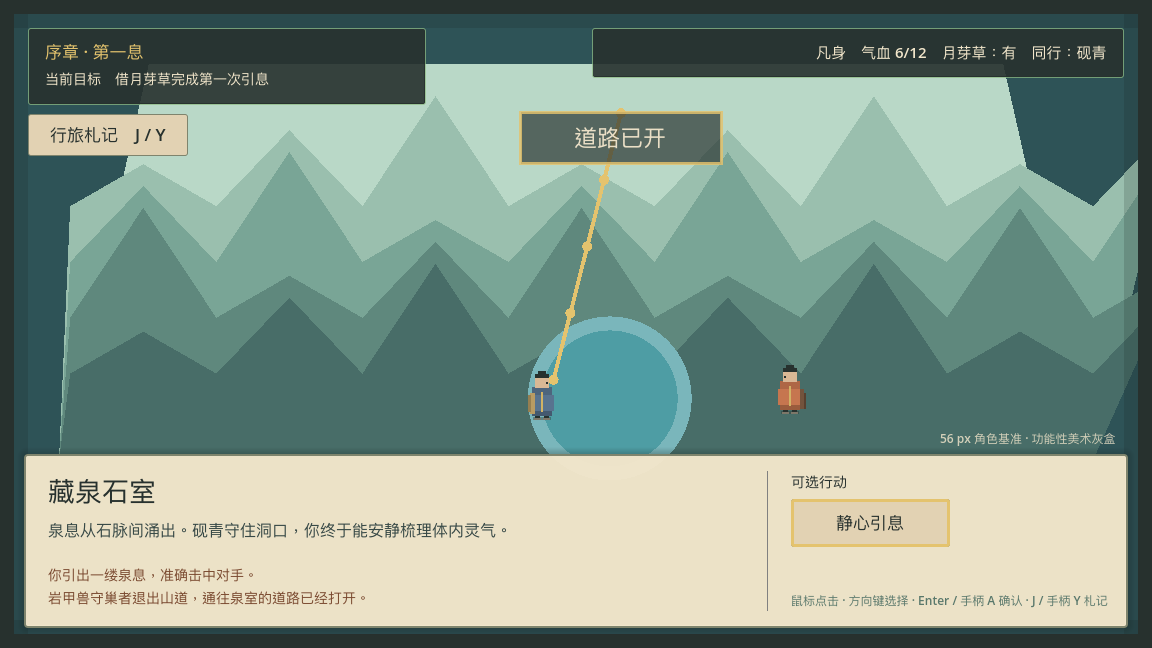
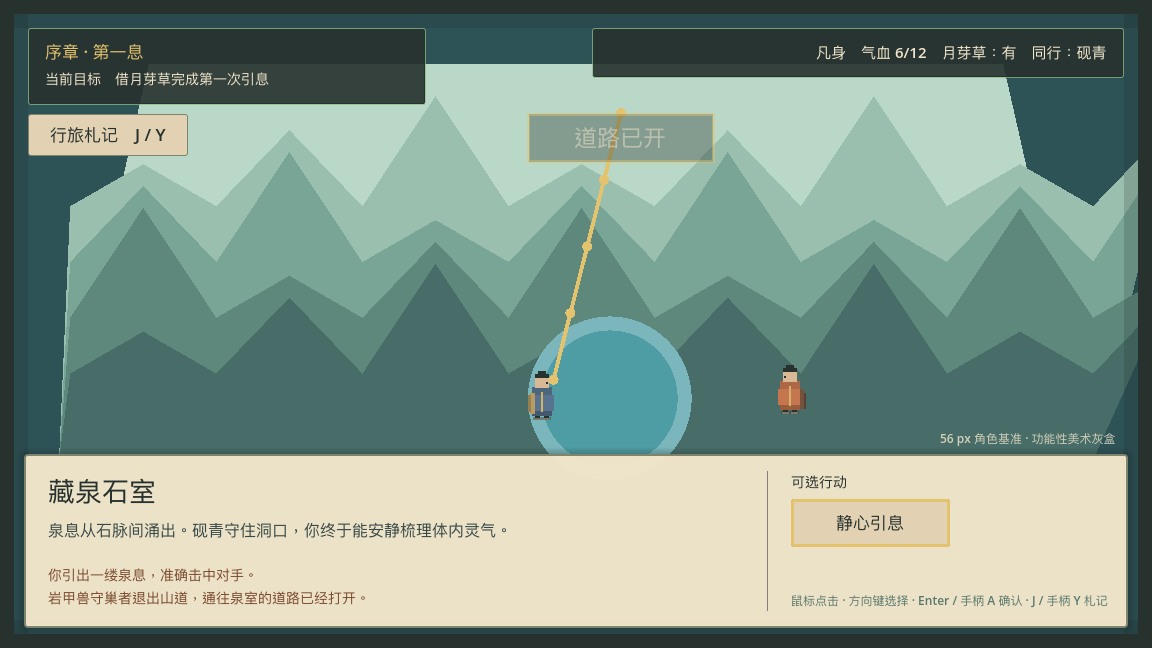
feat: protect local saves before restarting
Require a second explicit activation before deleting valid, corrupt, backup, or interrupted-write journey data. Cancellation owns the default focus and controller Start/Escape path, while the existing title nodes preserve the 119-node lifecycle peak.

Cover cancel and confirm behavior through 747 scene/rule assertions, 104 chapter E2E checks, and 50 physical-input checks. Make reference PNG capture deterministic by fixing animation, feedback, and transition presentation only while writing screenshots; two consecutive full runs produce identical hashes.

Changed region(s): [[0.4375, 0.1543, 0.625, 0.2778]]

diff --git a/docs/TESTING.md b/docs/TESTING.md
@@ -5,11 +5,11 @@
 | Boundary | Gate | Current result |
 | --- | --- | --- |
 | Deterministic cultivation rules and package manifest | pytest + branch coverage, minimum 99% | 62 tests; 100% statements and branches |
-| Godot RPG rules and scenes | headless GDScript harness | 725 assertions passing, including settings-v3 large-text/high-contrast accessibility with migration and persistence, the two-result ferryman side story/save v11, resumable/dynamic chapter epilogue, modal journal/no-spoiler content, four stable paper portraits, three persistent discoveries, bounded companion footprints, focus-blocking/reduced-motion transitions, Y-depth occlusion, selectable harvesting, enemy-atlas selection, presentation independence, shared-resolver boss, dialogue, and exploration contracts |
-| Godot RPG chapter path | independent headless E2E | 96 checks: ferryman repair/persist/replay-record branches → dynamic epilogue interruption/restore/two responses → saved journal restoration → three character portrait IDs → dialogue interruption → persistent ferry/path discoveries → old-rule harvest → mountain/companion restore → enemy/boss restore → ending → replay cutting/regrowth → bypass |
-| Godot keyboard/controller path | physical events + focus assertions | 42 checks: J/Y journal and movement blocking → title/dialogue/portrait focus safety → keyboard ferryman dialogue + controller choice → keyboard discovery → movement/companion trail → stable one-button harvest → pause preferences incl. text-size/contrast round-trip → two-map interaction → battle focus |
+| Godot RPG rules and scenes | headless GDScript harness | 747 assertions passing, including safe new-game confirmation for valid/corrupt files, settings-v3 large-text/high-contrast accessibility with migration and persistence, the two-result ferryman side story/save v11, resumable/dynamic chapter epilogue, modal journal/no-spoiler content, four stable paper portraits, three persistent discoveries, bounded companion footprints, focus-blocking/reduced-motion transitions, Y-depth occlusion, selectable harvesting, enemy-atlas selection, presentation independence, shared-resolver boss, dialogue, and exploration contracts |
+| Godot RPG chapter path | independent headless E2E | 104 checks: cancel/confirm new-game protection → ferryman repair/persist/replay-record branches → dynamic epilogue interruption/restore/two responses → saved journal restoration → three character portrait IDs → dialogue interruption → persistent ferry/path discoveries → old-rule harvest → mountain/companion restore → enemy/boss restore → ending → replay cutting/regrowth → bypass |
+| Godot keyboard/controller path | physical events + focus assertions | 50 checks: controller cancel/confirm new-game protection → J/Y journal and movement blocking → title/dialogue/portrait focus safety → keyboard ferryman dialogue + controller choice → keyboard discovery → movement/companion trail → stable one-button harvest → pause preferences incl. text-size/contrast round-trip → two-map interaction → battle focus |
 | Godot performance and lifecycle | versioned headless budget | 100,000 collision moves, 50,000 bounded companion-trail updates, and 2,000 complete battle-rule loops each under 2.5 s; 20 scene create/destroy cycles under 5 s; ≤120 nodes and zero root-child leaks |
-| Godot RPG package | double PCK/manifest export + packed-namespace/boot smoke | byte-reproducible artifact and manifest; SHA-256/size/source state verified; six runtime resources present and nine `tests/`/`tools/` resources absent |
+| Godot RPG package and reference captures | double export/capture | byte-reproducible PCK and manifest with SHA-256/size/source state verified; six runtime resources present and nine `tests/`/`tools/` resources absent; consecutive full PNG capture runs have identical SHA-256 sets |
 | Evennia commands and world bootstrap | Evennia isolated database harness | command, localization, and bootstrap integration tests passing |
 | Multiplayer release path | real server, two real Telnet clients | 中文注册 → 登录 → 采药 → 修炼 → 协作 → 突破 → 重连持久化 |
 | Browser journey prototype | Vitest and Playwright | 100% unit metrics; 53 Playwright executions passing |

diff --git a/docs/PROJECT_CONTEXT.md b/docs/PROJECT_CONTEXT.md
@@ -130,7 +130,7 @@ Expand the executable RPG graybox into a complete 90-minute original chapter:
 4. 藏泉山道 free exploration, warning, optional stone-marker investigation, return/retreat, no-combat bypass, mid-map save, and companion rescue path (implemented);
 5. three regular enemy profiles plus a shared-resolver boss, telegraphed intents, material weaknesses, armor-break and focus states (implemented);
 6. an active chapter companion and a visible two-turn tactical deployable (implemented);
-7. side-story-, discovery-, harvest-, battle-status-, enemy-, dialogue-, and map-aware save v11, title/continue, safe backup recovery, chapter replay, and an input-safe no-spoiler journey journal (implemented; v1–v10 migrate explicitly);
+7. side-story-, discovery-, harvest-, battle-status-, enemy-, dialogue-, and map-aware save v11, title/continue, two-step new-game protection, safe backup recovery, chapter replay, and an input-safe no-spoiler journey journal (implemented; v1–v10 migrate explicitly);
 8. mouse, keyboard, and controller parity with physical-event/focus acceptance coverage (implemented);
 9. original visual direction and opt-in procedural ambience with recorded provenance (reproducible protagonist/companion/ferryman and enemy atlases, animated map actors, and bright painted-paper dialogue portraits implemented; map/final asset refinement remains);
 10. new-game-to-ending-to-save-resume-to-replay automated Godot acceptance path (implemented).

diff --git a/docs/design/NEXT_PRODUCTION_PLAN_v0.1.md b/docs/design/NEXT_PRODUCTION_PLAN_v0.1.md
@@ -14,7 +14,7 @@
     → 第一次引息 → 章节结算 → 返回标题 / 继续 / 重游
 ```
 
-工程证据包括 725 项 Godot 规则/场景断言、96 项完整章节 E2E、42 项原始键盘/
+工程证据包括 747 项 Godot 规则/场景断言、104 项完整章节 E2E、50 项原始键盘/
 手柄输入与焦点断言、存档 v1–v11 迁移、可复现 PCK/构建清单与启动冒烟。现阶段最大缺口
 不再是底层闭环，而是正式地图资产、人物表现、探索密度和内容时长。
 
@@ -128,6 +128,7 @@
 | 10e | 可随时查阅的行旅札记（已完成） | 当前目标、无剧透见闻、读档恢复、J/手柄 Y 与焦点阻断通过 |
 | 10f | 动态且可恢复的章节余波（已完成） | 两条路线回显、逐句存档、选择事件一致性与两项收束回应通过 |
 | 10g | 守堤人双结果支线与 save v11（已完成） | 梁叔图集、近距离对话、扶尺/记时地图余留、札记与余波、v10 迁移通过 |
+| 10h | 新游戏存档保护与可复现参考图（已完成） | 有效/异常文件均需二次确认；取消与手柄焦点通过；连续捕获哈希一致 |
 | 11 | 目标平台原生导出 | 干净机启动与续玩通过 |
 | 12 | 视觉、声音、性能与无障碍复核（表现速度/简化动态、大字模式/高对比文字、性能预算、PCK 哈希清单已完成） | 仍需目标硬件与原生平台确认 |
 

diff --git a/docs/DECISIONS.md b/docs/DECISIONS.md
@@ -4,6 +4,19 @@ Use this file for durable decisions. Do not depend on chat transcripts as the on
 
 ## Confirmed
 
+### 2026-08-02 — Starting over never destroys local progress in one activation
+
+When any primary, backup, or interrupted-write journey artifact exists, the title's first
+`重新开始` activation changes the existing two primary buttons into an explicit confirmation:
+cancel and preserve the files, or confirm deletion and begin again. Cancel receives default focus;
+controller Start and Escape also cancel, while unrelated title preferences are temporarily disabled.
+No journey object or file byte changes before the second confirmation. Invalid or future-version
+artifacts receive the same protection so a player retains the option of manual recovery. The flow
+reuses existing nodes to stay within the 120-node lifecycle budget and owns no rule or save-schema
+state. Reference capture tooling separately freezes animation frames, feedback phase, and transition
+time only while writing PNGs, making two consecutive full capture runs byte-identical without
+changing runtime presentation.
+
 ### 2026-08-02 — Text size and contrast are player settings, not rule inputs
 
 Settings v3 adds `text_scale` (`standard`/`large`) and `high_contrast` (boolean), toggled from

diff --git a/rpg/README.md b/rpg/README.md
@@ -39,7 +39,9 @@ hardware promise.
 启动后可选择新游戏或继续本机的版本化存档。当前 save v11 同时记录稳定地图标识、
 归一化坐标、对话行号、敌人标识、战斗状态、月芽采集方式、环境见闻与守堤选择；v1–v10 自动迁移，未知地图、无效对话、未知敌人、非法采集、见闻或支线状态不会被静默放进错误场景。游戏会在成功交互、战斗行动和持续
 移动时自动保存；按 `Esc` 或手柄 Start 可暂停、保存并返回标题。损坏或未知版本
-的存档不会被静默载入，主文件写入失败时可从安全备份恢复。
+的存档不会被静默载入，主文件写入失败时可从安全备份恢复。只要主文件、备份或
+中断写入文件仍在，第一次选择重新开始只会进入警告态；取消默认获得焦点，第二次
+明确确认后才删除旧进度并建立新旅程，异常文件也不会被一次点击覆盖。
 
 环境音默认关闭，可在标题或暂停菜单中开启并循环选择 35%/60%/100% 音量。声音
 由项目 GDScript 在运行时合成，不下载或嵌入第三方音频；偏好独立保存在本机，

diff --git a/README.md b/README.md
@@ -80,8 +80,8 @@ make test-multiplayer-e2e    # live server + real two-client journey only
 ```
 
 The deterministic multiplayer domain rules have an enforced 99% statement/branch minimum and
-currently reach 100%. Godot behavior is covered by 725 headless rule/scene assertions plus an
-independent 96-check chapter E2E and 42-check physical-input/focus path. The MUD adapter has
+currently reach 100%. Godot behavior is covered by 747 headless rule/scene assertions plus an
+independent 104-check chapter E2E and 50-check physical-input/focus path. The MUD adapter has
 isolated Evennia tests, and its release path
 is exercised through two real concurrent Telnet clients. The preserved browser prototype retains
 its own 100% unit result and 53-execution Playwright matrix. See [testing](docs/TESTING.md),
